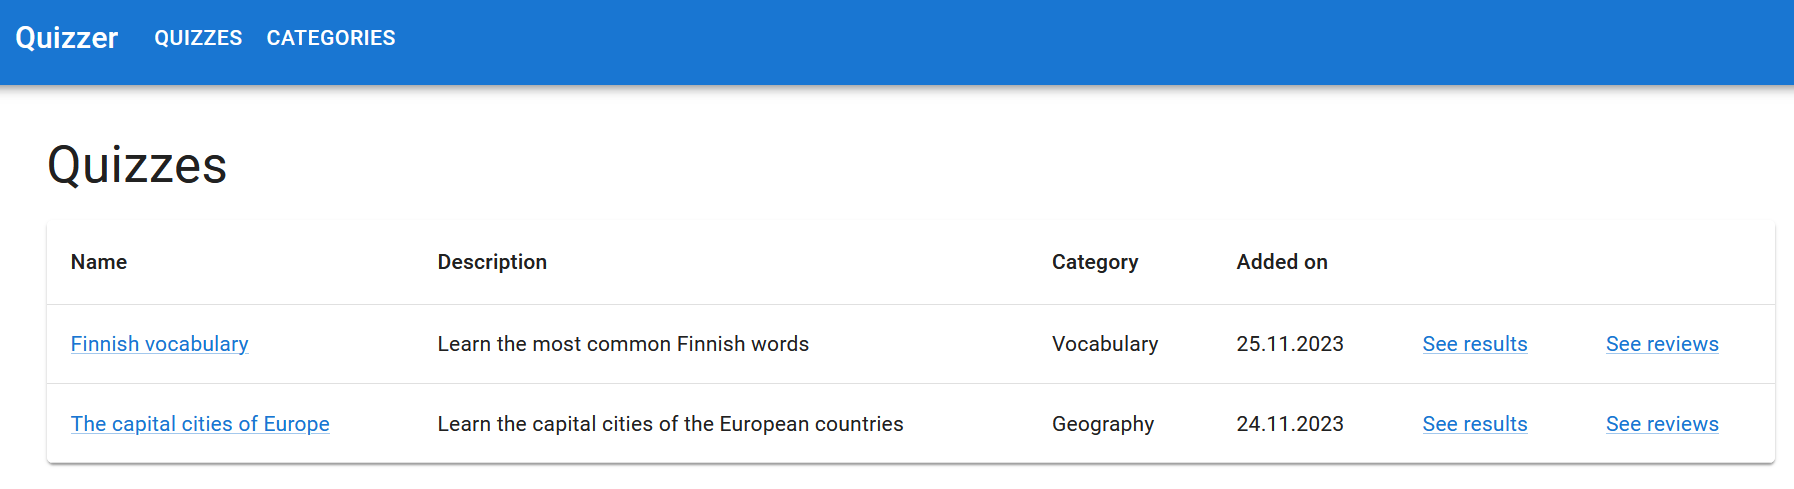
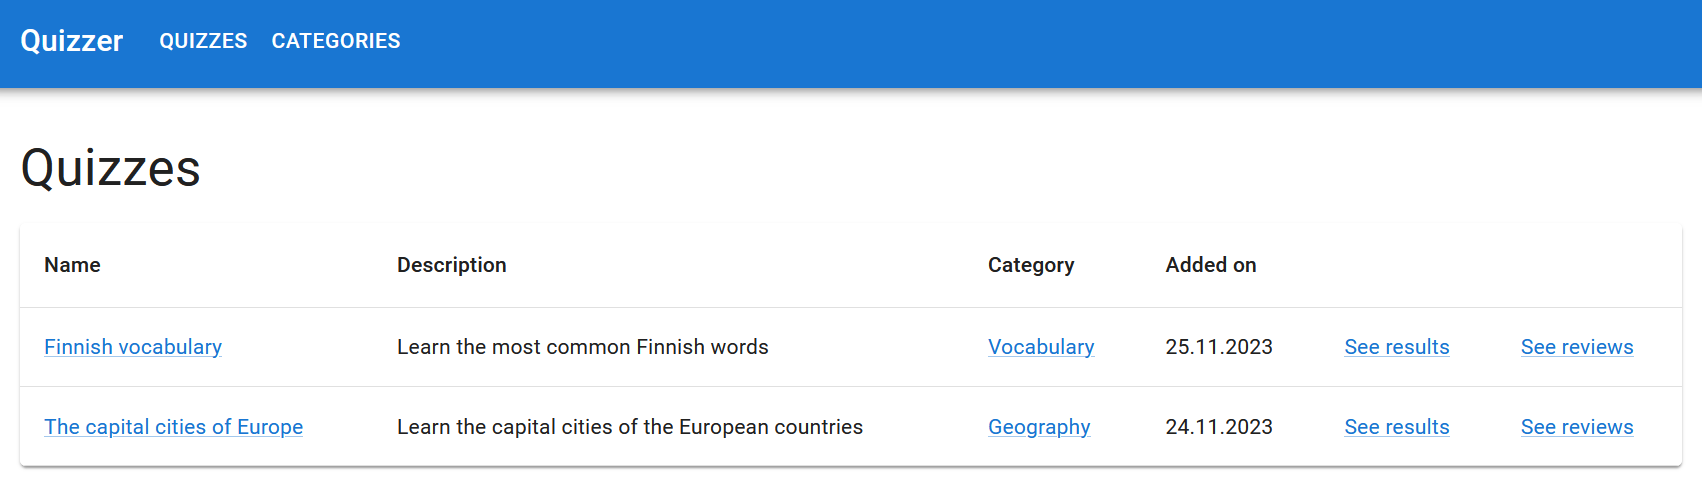
grading fn

diff --git a/teacher/calculateGrade.js b/teacher/calculateGrade.js
@@ -1,0 +1,43 @@
+const readline = require("readline-sync");
+
+function calculateGrade(points) {
+  if (points < 36) {
+    return 0;
+  } else if (points >= 60) {
+    return 5;
+  } else {
+    return ((points - 36) / (60 - 36)) * 5 + 1;
+  }
+}
+
+function calculatePersonalPoints(peerReviewAverage) {
+  if (peerReviewAverage <= 1) {
+    return 0;
+  } else {
+    return ((peerReviewAverage - 1) / (5 - 1)) * 20;
+  }
+}
+
+while (true) {
+  const projectPoints = parseInt(readline.question("Project points (0-40):"));
+  const peerReviewAverage = parseInt(
+    readline.question("Peer review average (0-5):")
+  );
+  const personalModifier = parseInt(
+    readline.question("Personal points modifier:")
+  );
+
+  const personalPoints = Math.min(
+    calculatePersonalPoints(peerReviewAverage) + personalModifier,
+    20
+  );
+
+  const totalPoints = projectPoints + personalPoints;
+  const grade = calculateGrade(totalPoints);
+
+  console.log(`Project points: ${projectPoints}/40`);
+  console.log(`Personal points: ${personalPoints}/20`);
+  console.log(`Total points: ${totalPoints}/60`);
+  console.log(`Grade: ${grade}/5`);
+  console.log("---");
+}

diff --git a/material/sprint-2.md b/material/sprint-2.md
@@ -102,7 +102,7 @@ The Sprint Review gave the Product Owner many new ideas on how to improve the ap
 >
 > _There should be a page in the student dashboard where the results of a quiz are summarized. The results summarize all the answers submitted by different students to provide the teacher with an overview of how well the students know the quiz's topic. The page should display the difficulty level, the total number of answers, the correct answer percentage and the number of correct and wrong answers for each question of the quiz. Also the total number of answer and questions of a quiz should be displayed. There should be a link to the results page next to the quiz in the quiz list page._
 >
-> _Different students are interested in different quiz categories. To find interesting quizzes quickly, there should be page that lists all the categories. Clicking the category's name on the list should take the student to a page that lists the quizzes in the category. The category list page should be accessible from the navigation menu._"
+> _Different students are interested in different quiz categories. To find interesting quizzes quickly, there should be page that lists all the categories. The category list page should be accessible from the navigation menu. Clicking the category's name on the list should take the student to a page that lists the quizzes in the category. Also, the quiz's category in the quiz list should be a link to the category page."_
 >
 > -- The Product Owner
 
@@ -868,6 +868,8 @@ export default function MessageList() {
 > The Scrum Team's UI Designer's vision is that the implementation could look something like this:
 >
 > ![](/assets/sprint-2-us-11-1-category-quizzes.png)
+>
+> ![](/assets/sprint-2-us-11-3-category-quizzes.png)
 >
 > ![](/assets/sprint-2-us-11-2-category-quizzes.png)
 

diff --git a/material/sprint-3.md b/material/sprint-3.md
@@ -56,6 +56,8 @@ The Sprint Review gave the Product Owner many new ideas on how to improve the ap
 > -- The Product Owner
 
 <!--
+The review page should list the added reviews and display the number of reviews and the rating average of the quiz. There should also be a summary of how many of the five different ratings the quiz has. Each review should display the information submitted by the student and the date when the review was written. It should also be possible for the student to edit and delete reviews in the review page.
+
 Students have different skill levels so it would be useful if the student could filter the questions of quiz by the difficulty level in the quiz page. There could be dropdown menu at the top of the page from which the student can select the difficulty level for the questions.
 -->
 
